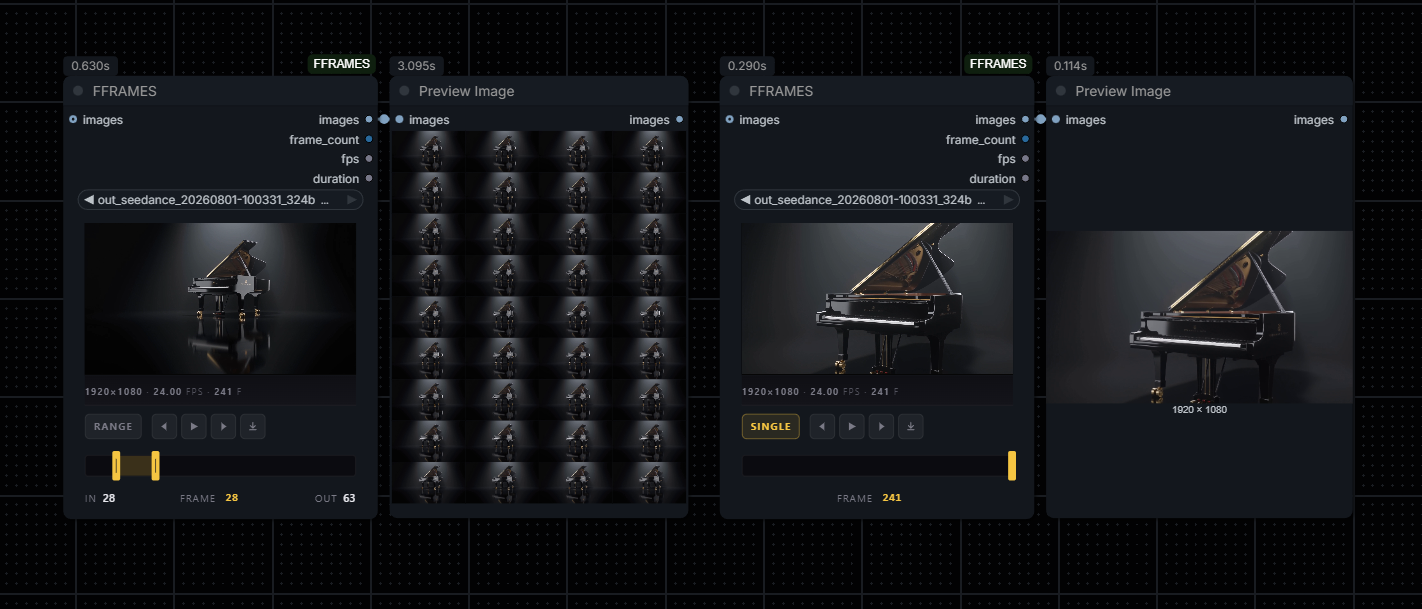
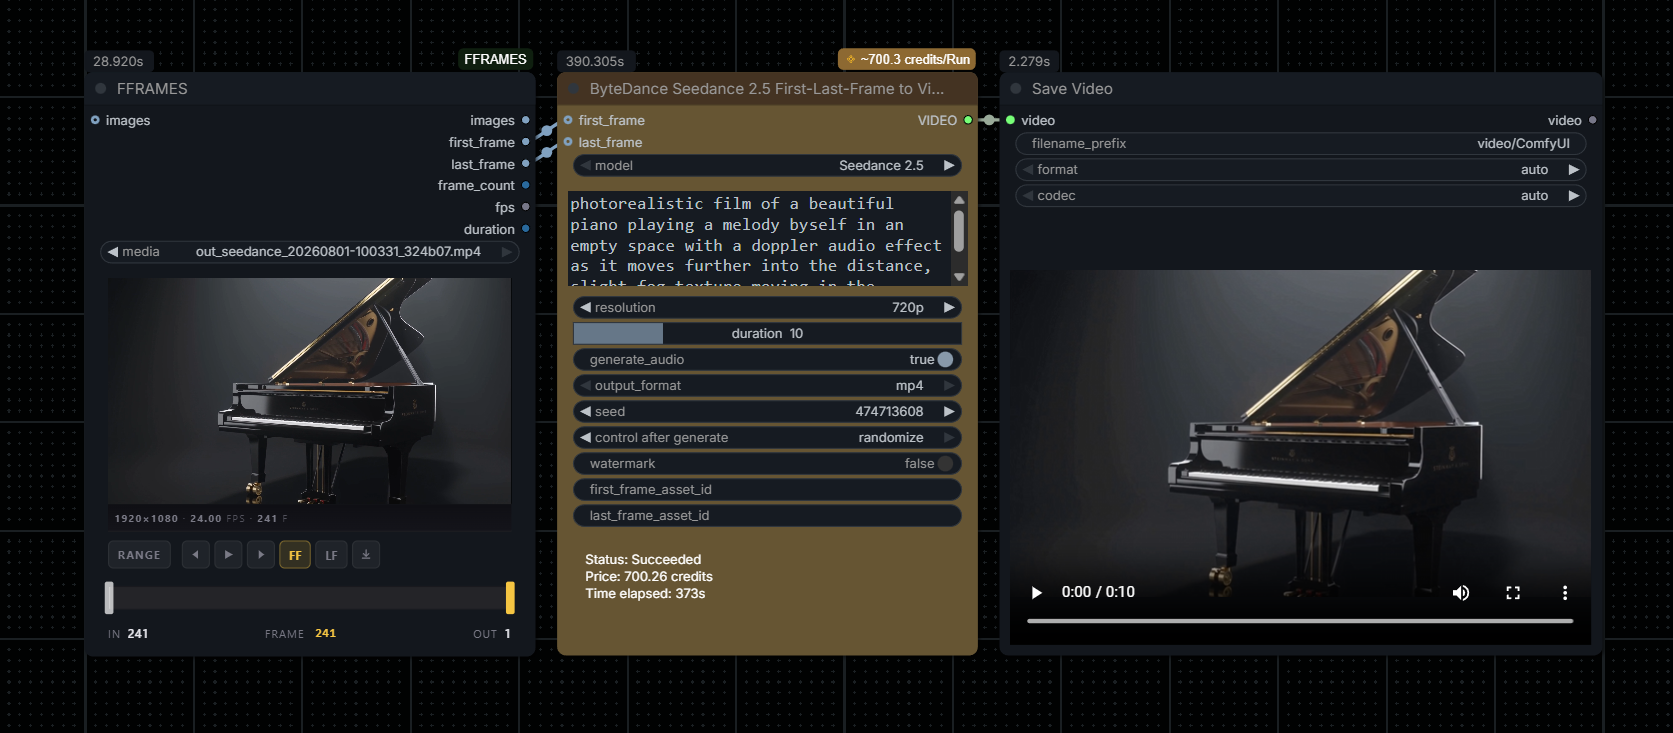
independent FF/LF markers + FF/LF preview buttons + polish
Trim handles can now cross freely — no more IN <= OUT constraint. Pick any
two frames in any order and get reversed sequences for free when FF sits
past LF. Verified against ByteDance Seedance 2.5 First-Last-Frame — the
first_frame / last_frame outputs land on the correct boundaries.

- backend: detect IN > OUT, decode ascending, flip the tensor so first_frame
  is the frame at frame_start and last_frame is the frame at frame_end
- backend: duration is now INT (rounded seconds) so it plugs into Seedance
- backend: outputs first_frame + last_frame as separate IMAGE pins
- frontend: FF / LF buttons (preview-only jump to the IN/OUT frames) light
  up when the playhead is parked on that marker; matching handle also
  lights up
- frontend: fresh media loads reset IN=0, OUT=last so both handles are
  visible at opposite ends; workflow reloads preserve serialized values
- frontend: handles default to bright grey, hover white, dragging or
  selected turns yellow; dark inner line removed
- frontend: band is now light grey instead of yellow (band == pure range
  indicator, colour reserved for interaction / selection state)
- frontend: uniform 12px card padding, meta-header padding balanced 6/6
- frontend: exported PNG filename zero-pads to the width of the total
  frame count (min 3 digits) — frame 1 of a 100-frame clip becomes _f001
- frontend: pointer-capture on drag handles so pointerup always fires and
  handles don't stick to the cursor
- frontend: default back to RANGE mode
[…]

diff --git a/web/frame_picker.js b/web/frame_picker.js
@@ -107,7 +107,7 @@ const CSS = `
 /* ---------- meta header: dimensions / fps / frames, left-aligned ---------- */
 .fp-head {
   position: relative;
-  padding: 10px 0 8px;
+  padding: 6px 0 6px 6px;
   background: linear-gradient(180deg, #0f0f14 0%, #14141a 100%);
   border-bottom: 1px solid var(--line);
   display: flex;
@@ -191,6 +191,13 @@ const CSS = `
 .fp-btn:active { transform: translateY(1px); }
 .fp-btn.icon { padding: 0; width: 26px; }
 .fp-btn.icon svg { width: 10px; height: 10px; fill: currentColor; }
+.fp-btn.fp-io-btn { font-size: 11px; font-weight: 700; letter-spacing: 0; }
+.fp-btn.fp-io-btn.active {
+  color: var(--accent);
+  border-color: rgba(245,197,66,0.35);
+  background: rgba(245,197,66,0.14);
+}
+.fp-btn.fp-io-btn.active:hover { background: rgba(245,197,66,0.22); }
 .fp-btn.pri { color: var(--text); background: rgba(245,197,66,0.14); border-color: rgba(245,197,66,0.30); }
 .fp-btn.pri:hover { background: rgba(245,197,66,0.22); }
 .fp-spacer { flex: 1; }
@@ -218,9 +225,9 @@ const CSS = `
 .fp-band {
   position: absolute;
   top: 0; bottom: 0;
-  background: rgba(245,197,66,0.20);
-  border-left: 1px solid var(--accent);
-  border-right: 1px solid var(--accent);
+  background: rgba(255,255,255,0.10);
+  border-left: 1px solid rgba(255,255,255,0.30);
+  border-right: 1px solid rgba(255,255,255,0.30);
   pointer-events: none;
 }
 /* playhead */
@@ -239,26 +246,20 @@ const CSS = `
   position: absolute;
   top: -5px; bottom: -5px;
   width: 8px;
-  background: var(--accent);
+  background: rgba(255,255,255,0.70);
   border-radius: 2px;
   cursor: ew-resize;
   transform: translateX(-4px);
   z-index: 3;
+  transition: background 0.12s;
 }
 .fp-h::before {
   content: "";
   position: absolute;
   top: -12px; bottom: -12px; left: -14px; right: -14px;
 }
-.fp-h::after {
-  content: "";
-  position: absolute;
-  top: 50%; left: 50%;
-  transform: translate(-50%, -50%);
-  width: 1px; height: 14px;
-  background: rgba(20,20,26,0.7);
-}
-.fp-h:hover, .fp-h.dragging { background: #ffd966; }
+.fp-h:hover { background: rgba(255,255,255,0.95); }
+.fp-h.dragging, .fp-h.selected { background: var(--accent); }
 
 /* playhead: also draggable — bigger cursor and hit area */
 .fp-play {
@@ -404,6 +405,8 @@ app.registerExtension({
           <button class="fp-btn icon" data-act="n1" title="Next frame (→ / Shift+→ = +10)">
             <svg viewBox="0 0 10 10"><path d="M3 1 L8 5 L3 9 Z"/></svg>
           </button>
+          <button class="fp-btn fp-io-btn" data-act="first" title="Preview first frame">FF</button>
+          <button class="fp-btn fp-io-btn" data-act="last" title="Preview last frame">LF</button>
           <button class="fp-btn icon" data-act="export" title="Export current frame as PNG">
             <svg viewBox="0 0 12 12"><path d="M6 1 L6 8 M3 5 L6 8 L9 5 M2 10 L10 10" fill="none" stroke="currentColor" stroke-width="1.4" stroke-linecap="round" stroke-linejoin="round"/></svg>
           </button>
@@ -438,6 +441,10 @@ app.registerExtension({
       const $hOut = document.createElement("div"); $hOut.className = "fp-h";
       $strip.append($band, $play, $hIn, $hOut);
 
+      const $btnFF = root.querySelector('[data-act="first"]');
+      const $btnLF = root.querySelector('[data-act="last"]');
+
+
       const state = { total: 0, fps: 0, w: 0, h: 0, playhead: 0 };
 
       const clamp = (v, lo, hi) => Math.max(lo, Math.min(hi, v));
@@ -452,9 +459,18 @@ app.registerExtension({
 
         $hIn.style.left  = inPct + "%";
         $hOut.style.left = outPct + "%";
-        $band.style.left  = inPct + "%";
-        $band.style.width = Math.max(0, outPct - inPct) + "%";
+        // band spans min→max so it stays visible even if IN sits past OUT
+        $band.style.left  = Math.min(inPct, outPct) + "%";
+        $band.style.width = Math.abs(outPct - inPct) + "%";
         $play.style.left  = frameToPct(state.playhead) + "%";
+
+        // FF / LF button + matching handle light up when playhead is parked
+        // on the IN / OUT marker
+        const p = state.playhead | 0;
+        $btnFF?.classList.toggle("active", p === inF);
+        $btnLF?.classList.toggle("active", p === outF);
+        $hIn.classList.toggle("selected",  p === inF);
+        $hOut.classList.toggle("selected", p === outF);
 
         // display frames as 1-based so IN/OUT/FRAME line up with the total
         // count ("241 F") — internal widget values stay 0-based
@@ -554,7 +570,10 @@ app.registerExtension({
       }
 
       // ---- probe (metadata only) + swap preview ----
-      async function loadMedia(name) {
+      // resetRange=true on fresh media picks → snap IN/OUT to full range so
+      // both handles are visible at opposite ends. Workflow reloads pass
+      // false so serialized IN/OUT values are preserved.
+      async function loadMedia(name, resetRange = true) {
         swapPreviewMedia(name);
         if (!name) {
           state.total = 0; state.fps = 0; state.w = 0; state.h = 0;
@@ -572,10 +591,16 @@ app.registerExtension({
           state.h     = info.height | 0;
 
           const total = Math.max(1, state.total);
-          let curIn  = clamp(widgetValue(node, "frame_start", 0) | 0, 0, total - 1);
-          let curOut = widgetValue(node, "frame_end", 0) | 0;
-          if (!curOut) curOut = total - 1;
-          curOut = clamp(Math.max(curOut, curIn), curIn, total - 1);
+          let curIn, curOut;
+          if (resetRange) {
+            curIn  = 0;
+            curOut = total - 1;
+          } else {
+            // preserve serialized values (workflow reload); no order clamp —
+            // FF and LF are independent, may cross, may be equal
+            curIn  = clamp(widgetValue(node, "frame_start", 0) | 0, 0, total - 1);
+            curOut = clamp(widgetValue(node, "frame_end",   0) | 0, 0, total - 1);
+          }
           setWidget(node, "frame_start", curIn);
           setWidget(node, "frame_end",   curOut);
           setPlayhead(curIn);
@@ -704,7 +729,9 @@ app.registerExtension({
           if (!blob) return;
 
           const srcName = (findWidget(node, "media")?.value || "frame").replace(/\.[^.]+$/, "");
-          const filename = `${srcName}_f${(state.playhead | 0) + 1}_${Date.now()}.png`;
+          const n   = (state.playhead | 0) + 1;
+          const pad = Math.max(String(state.total || n).length, 3);
+          const filename = `${srcName}_f${String(n).padStart(pad, "0")}_${Date.now()}.png`;
           const fd = new FormData();
           fd.append("image", blob, filename);
           fd.append("overwrite", "true");
@@ -761,7 +788,7 @@ app.registerExtension({
 
       // ---- mode: range vs single ----
       const $modeBtn = root.querySelector(".fp-mode-btn");
-      function isRange() { return !!widgetValue(node, "range_mode", false); }
+      function isRange() { return !!widgetValue(node, "range_mode", true); }
       function applyMode() {
         const r = isRange();
         root.classList.toggle("single-mode", !r);
@@ -798,7 +825,9 @@ app.registerExtension({
           const a = document.createElement("a");
           a.href = URL.createObjectURL(blob);
           const src = (findWidget(node, "media")?.value || "frame").replace(/\.[^.]+$/, "");
-          a.download = `${src}_f${(state.playhead | 0) + 1}.png`;
+          const n   = (state.playhead | 0) + 1;
+          const pad = Math.max(String(state.total || n).length, 3);
+          a.download = `${src}_f${String(n).padStart(pad, "0")}.png`;
           document.body.appendChild(a);
           a.click();
           document.body.removeChild(a);
@@ -834,8 +863,10 @@ app.registerExtension({
         btn.addEventListener("click", e => {
           e.stopPropagation();
           const act = btn.dataset.act;
+          if (act === "first")  setPlayhead(widgetValue(node, "frame_start", 0) | 0);
           if (act === "p1")     step(-1);
           if (act === "n1")     step(+1);
+          if (act === "last")   setPlayhead(widgetValue(node, "frame_end", 0) | 0);
           if (act === "play")   togglePlay();
           if (act === "mode")   toggleMode();
           if (act === "export") exportFrame();
@@ -868,19 +899,18 @@ app.registerExtension({
         return clamp(((e.clientX - r.left) / r.width) * 100, 0, 100);
       }
       let dragging = null;
+      let _captureTarget = null;
+      let _capturePointerId = null;
       function onMove(e) {
         if (!dragging) return;
         const f = pctToFrame(pctFromEvent(e));
         if (dragging === "in") {
-          const outF = widgetValue(node, "frame_end", 0) | 0;
-          const ni = Math.min(f, outF);
-          setWidget(node, "frame_start", ni);
-          setPlayhead(ni);
+          // FF handle can now sit past LF — the range gets flipped downstream
+          setWidget(node, "frame_start", f);
+          setPlayhead(f);
         } else if (dragging === "out") {
-          const inF = widgetValue(node, "frame_start", 0) | 0;
-          const no = Math.max(f, inF);
-          setWidget(node, "frame_end", no);
-          setPlayhead(no);
+          setWidget(node, "frame_end", f);
+          setPlayhead(f);
         } else {
           setPlayhead(f);
         }
@@ -889,9 +919,15 @@ app.registerExtension({
         if (dragging === "in")  $hIn.classList.remove("dragging");
         if (dragging === "out") $hOut.classList.remove("dragging");
         $play.classList.remove("dragging");
+        if (_captureTarget && _capturePointerId != null) {
+          try { _captureTarget.releasePointerCapture(_capturePointerId); } catch {}
+        }
+        _captureTarget = null;
+        _capturePointerId = null;
         dragging = null;
         window.removeEventListener("pointermove", onMove);
         window.removeEventListener("pointerup", onUp);
+        window.removeEventListener("pointercancel", onUp);
       }
       function beginDrag(kind, e) {
         if (state.total <= 0 && kind === "scrub") return;
@@ -900,8 +936,14 @@ app.registerExtension({
         dragging = kind;
         if (kind === "in")  $hIn.classList.add("dragging");
         if (kind === "out") $hOut.classList.add("dragging");
+        // capture the pointer on the element so we get up/cancel even if the
+        // cursor leaves the window or another handler eats the event.
+        _captureTarget = kind === "in" ? $hIn : kind === "out" ? $hOut : $strip;
+        _capturePointerId = e.pointerId;
+        try { _captureTarget.setPointerCapture(e.pointerId); } catch {}
         window.addEventListener("pointermove", onMove);
         window.addEventListener("pointerup", onUp);
+        window.addEventListener("pointercancel", onUp);
         onMove(e);
       }
       $hIn.addEventListener("pointerdown",  e => beginDrag("in",  e));
@@ -950,10 +992,11 @@ app.registerExtension({
         // serialization, but that height was computed for the source node's
         // state (mode / width / aspect). Force a refit so height matches THIS
         // node's actual UI. Load media after — its aspect change refits again.
+        // Pass resetRange=false so serialized IN/OUT survive the reload.
         requestAnimationFrame(() => {
           node._fpRefit?.();
           const mw = findWidget(node, "media");
-          if (mw && mw.value) loadMedia(mw.value);
+          if (mw && mw.value) loadMedia(mw.value, false);
         });
       };
 

diff --git a/frame_picker.py b/frame_picker.py
@@ -175,7 +175,7 @@ class FFRAMES:
             "required": {
                 "frame_start": ("INT", {"default": 0, "min": 0, "max": 999999, "step": 1}),
                 "frame_end":   ("INT", {"default": 0, "min": 0, "max": 999999, "step": 1}),
-                "range_mode":  ("BOOLEAN", {"default": False, "label_on": "range", "label_off": "single"}),
+                "range_mode":  ("BOOLEAN", {"default": True, "label_on": "range", "label_off": "single"}),
             },
             "optional": {
                 "images": ("IMAGE",),
@@ -183,8 +183,8 @@ class FFRAMES:
             },
         }
 
-    RETURN_TYPES = ("IMAGE", "INT", "FLOAT", "FLOAT")
-    RETURN_NAMES = ("images", "frame_count", "fps", "duration")
+    RETURN_TYPES = ("IMAGE", "IMAGE", "IMAGE", "INT", "FLOAT", "INT")
+    RETURN_NAMES = ("images", "first_frame", "last_frame", "frame_count", "fps", "duration")
     FUNCTION = "pick"
     CATEGORY = "image/animation"
 
@@ -195,13 +195,20 @@ class FFRAMES:
         if not range_mode:
             frame_end = frame_start
 
+        # IN can now sit past OUT — remember direction, decode ascending,
+        # then flip so first_frame == frame at frame_start, last_frame == frame_end
+        reversed_range = frame_start > frame_end
+        lo, hi = (frame_end, frame_start) if reversed_range else (frame_start, frame_end)
+
         # 1. connected batch wins (unknown fps — 0.0)
         if images is not None and images.shape[0] > 0:
             n = images.shape[0]
-            s = max(0, min(frame_start, n - 1))
-            e = max(s, min(frame_end, n - 1))
+            s = max(0, min(lo, n - 1))
+            e = max(s, min(hi, n - 1))
             out = images[s:e + 1]
-            return (out, int(out.shape[0]), 0.0, 0.0)
+            if reversed_range:
+                out = out.flip(0)
+            return (out, out[:1], out[-1:], int(out.shape[0]), 0.0, 0)
 
         # 2. widget-picked video
         path = _resolve_input_path(media)
@@ -209,10 +216,12 @@ class FFRAMES:
             raise RuntimeError("frame_picker: no input (connect IMAGE or pick a video)")
         if path.suffix.lower() not in VIDEO_EXTS:
             raise RuntimeError(f"frame_picker: unsupported extension {path.suffix}")
-        out, fps = _decode_video_range(path, frame_start, frame_end)
+        out, fps = _decode_video_range(path, lo, hi)
+        if reversed_range:
+            out = out.flip(0)
         count = int(out.shape[0])
-        duration = count / fps if fps > 0 else 0.0
-        return (out, count, float(fps), float(duration))
+        duration = int(round(count / fps)) if fps > 0 else 0
+        return (out, out[:1], out[-1:], count, float(fps), duration)
 
     @classmethod
     def IS_CHANGED(cls, frame_start, frame_end, range_mode=True, images=None, media=""):
